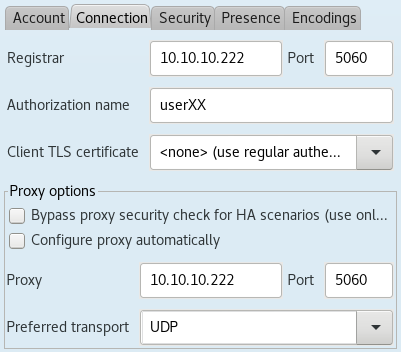
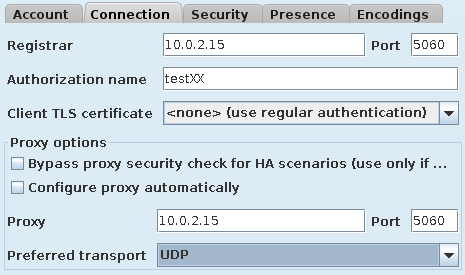
lab4: Update VoIP over central server for online elaboration.

diff --git a/voip/lab4-zadani.tex b/voip/lab4-zadani.tex
@@ -45,10 +45,11 @@
 	\end{table}
   \end{itemize}
   \item Pokud z předchozích cvičení máte provedeny nějaké změny ve virtuálních strojích, obnovte je do výchozího stavu.
-  \item Před zahájením cvičení si vytvořte snapshot virtuálního stroje za pomoci
+  \item Před zahájením cvičení si vytvořte snapshoty virtuálních strojů za pomoci
   menu \textit{Machine $\rightarrow$ Take snapshot} pro snadný návrat k výchozímu stavu.
-  \item Odpovědi pište do odpovědního archu \texttt{protokol.md} který odevzdáte do WIS-u.
-  Dostupný je na adrese \url{https://github.com/nesfit/ISA/blob/master/voip/protokol.md}.
+  \item Odpovědi pište do odpovědního archu \texttt{protokol4.docx} který odevzdáte do WIS-u jako \texttt{protokol4.pdf}.
+  Dostupný je na adrese \url{https://github.com/nesfit/ISA/blob/master/voip/protokol/protokol4.docx}.
+  Pokud nemáte nainstalovaný program Microsoft Word, je možné ze sklau dokumentů ke kurzu ISA stáhnout \texttt{protokol4} i ve formátu \texttt{pdf}.
   \item Do WIS-u budete také odevzdávat všechny zachycené \texttt{pcap} soubory.
 \end{itemize}
 
@@ -56,7 +57,7 @@
 \section{Příprava prostředí pro VoIP}
 
 \subsection{Instalace Jitsi SoftPhone na PC-A}
-\begin{itemize}
+\begin{enumerate}
   \item Jitsi SoftPhone je aplikace, která simuluje chování fyzického IP telefonu.
   
   \item Pro instalaci Jitsi SoftPhone na CentOS 7 je nejdříve potřeba vyřešit problém se závislostmi na požadované RPM balíčky. Na PC-A zadejte postupně následující příkazy:\footnote{Zdroj: \url{https://github.com/jitsi/jitsi/issues/425#issuecomment-345938823}}
@@ -90,105 +91,135 @@
   \item Vypněte virtuální počítač PC-A.
   
   \item V programu VirtualBox klikněte pravým tlačítkem na PC-A a zvolte \emph{Settings $\rightarrow$ Audio} a pokud ještě nejsou, zaškrtněte oba checkboxy (\emph{Enable Audio Output, Enable Audio Input}) a potvrďte kliknutím na \emph{OK}. Tento krok je nutný, i když nebudete fyzické audio zařízení používat. Pokud Jitsi nebude mít přístup k audio zařízení, nenaváže hovor.
-\end{itemize}
+\end{enumerate}
   
 
 \subsection{Vytvoření virtuální LAN a připojení PC-A a PC-U do ní}
-\begin{itemize}
+\begin{enumerate}
   \item Ujistěte se, že PC-A i PC-U jsou vypnuté.
   \item V programu Virtual Box klikněte na \emph{Tools $\rightarrow$ Preferences $\rightarrow$ Network $\rightarrow$ Zelené plus (Adds new NAT network)}. Tím vznikne nová virtuální LAN s názvem \emph{NatNetwork}. Potvrdíme kliknutím na tlačítko \emph{OK}.
   \item Do nově vzniklé virtuální LAN připojte PC-A tak, že kliknete pravým tlačítkem na PC-A a zvolte \emph{Settings $\rightarrow$ Network}. Zde se ujistěte, že je povolený síťový adaptér a z rozbalovacího menu \emph{Attached to:} vyberte \emph{NAT Network}. A z rozbalovacího menu \emph{Name} vyberte \emph{NatNetwork}, což je vaše virtuální LAN vytvořená v předchozím kroku.
   \item Stejným postupem připojte do stejné virtuální LAN také PC-U.
-\end{itemize}
+\end{enumerate}
 
 
 \subsection{Klonování PC-A a vytvoření jeho klonu PC-B}
-\begin{itemize}
+\begin{enumerate}
 	\item Před klonování PC-A se ujistěte, že je PC-A vypnutý.
 	\item V programu VirtualBox klikněte pravým tlačítkem myši na váš virtuální počítač PC-A a vyberte \emph{Clone...}.
 	\item Z rozbalovacího menu \emph{MAC Address Policy:} vyberte \emph{Generate new MAC addresses for all network adapters}. Klikněte na tlačítko \emph{Další}, změňte \emph{Full clone} na \emph{Linked clone} a potvrďte kliknutím na tlačítko \emph{Clone}.
 	\item Nově vzniklý klon je váš PC-B.
 	\item Ověřte, že i PC-B má v programu Virtual Box povolený audio vstup a výstup a že je připojený do virtuální LAN.
-\end{itemize}
+\end{enumerate}
 
 
 \subsection{Ověření konektivity mezi vertuálními počítači}
-\begin{itemize}
+\begin{enumerate}
 	\item Spusťte všechny 3 virtuální počítače (PC-A, PC-B, PC-U). Do počítačů PC-A a PC-B se přihlašte jako uživatel \emph{user} a do počítače PC-U se přihlašte jako uživatel \emph{isa}.
 	\item Na všech třech počítačích spusťte terminál (na PC-U nastartuje terminál automaticky jako hlavní uživatelské rozhraní) a pomocí příkazu \verb{ip address{ (respektive \verb{ifconfig{ na PC-U) zjistěte IPv4 adresu na rozhraní \verb{enp0s3{ (respektive \verb{em0{ na PC-U). IPv4 adresy včetně masky sítě v notaci CIDR (tj. číslo za lomítkem) jednotlivých strojů zapište do protokolu.
 	\item Otestujte konektivitu mezi všemi virtuálními počítači pomocí příkazu \verb{ping{. Výsledky zapište opět do protokolu do předpřipravené tabulky.
-\end{itemize}
+\end{enumerate}
 
 
 \section{Peer-to-peer VoIP pomocí signalizace SIP}
 Nastavte komunikaci VoIP mezi virtuálními stroji PC-A a PC-B bez použití ústředny (spojení peer-to-peer).
 
 \begin{enumerate}
-    \item Na PC-A zapněte program Jitsi a vyčkejte až se spustí okno programu.
+    \item Na PC-A spusťte program Jitsi příkazem \texttt{jitsi \&} a vyčkejte až se spustí okno programu.
 	V menu {\bf Tools} $\rightarrow$ {\bf Options} $\rightarrow$ {\bf Accounts} přidejte nový účet. Pro ten nastavte pole {\bf Network} na hodnotu {\bf SIP} a následně {\bf SIP id} na hodnotu {\bf PC-A}, potvrďte tlačítkem \emph{Add} a zkontrolujte, že se vytvořil {\it RegistrarLess SIP} účet.
     \item Stejný postup jako v předchozím bodě zopakujte pro PC-B, kde ale nastavte {\bf SIP id} na hodnotu {\bf PC-B}.
-	\item Na PC-A i PC-B spusťte síťový analyzátor Wireshark a začněte zachytávat pakety na rozhraní \emph{enp0s3}.
+	\item Na PC-B v hlavním okně programu Jitsi zadejte do pole {\it Enter name or number} IPv4 adresu virtuálního stroje PC-A.
+	Z PC-B zavolejte na PC-A stisknutím tlačítka zeleného telefonu. Na poprvé se pravděpodobně nepodaří hovor navázat, další pokus v obráceném směru volání by však již měl být úspěšný.
+	Hovor z PC-B na PC-A ukončete.
+	\item Na PC-A i PC-B spusťte síťový analyzátor Wireshark jako uživatel \texttt{root} a začněte zachytávat pakety na rozhraní \emph{enp0s3}.
     \item Po spuštění nastavte display filtr tak, aby zobrazoval pouze protokol SIP (\textbf{Display filter:} \emph{sip}).
     \item Na PC-A v hlavním okně programu Jitsi zadejte do pole {\it Enter name or number} IPv4 adresu virtuálního stroje PC-B.
-    \item Z PC-A zavolejte na PC-B stisknutím tlačítka zeleného telefonu. Na počítači PC-B přijměte hovor a po chvíli hovor ukončete.
-	\item Pokud se nepodaří navázat hovor napoprvé, opakujte pokus, případně zkuste zavolat z PC-B na PC-A.
+    \item Z PC-A zavolejte na PC-B stisknutím tlačítka zeleného telefonu. Na počítači PC-B přijměte hovor.
+	\item Pokud v průběhu hovoru klikejte na tlačítka \texttt{Confirm} pro potvrzení bezpečnostního kódu, dojde k zabezpečení komunikace a změny z protokolu \emph{RTP} na protokol \emph{SRTP} (Secure Real-time Transport).
+	\item Po chvíli hovor ukončete.
 	\item Po ukončení hovoru zastavte zachytávání provozu v programu Wireshark na obou počítačích.
-    \item Proveďte analýzu navazování spojení v odchycených datech ve Wiresharku. Využijte podpory v menu {\bf Telephony $\rightarrow$ VoIP Calls}, kde uvidíte jednotlivé zaznamenané hovory. Vyberte příslušný hovor a pro zobrazení průběhu klikněte na volbu {\bf Flow}.
-    \item Zakreslete spojení do grafu v protokolu. Uveďte, pomocí kterých protokolů a mezi jakými IP adresami a porty probíhá signalizace a přenos dat. Zjistěte použitý kodek pro přenos hlasu.
-\end{enumerate}
+	\item Zachycenou komunikaci uložte do souborů \texttt{cv4-p2p-pcA.pcap} a \texttt{cv4-p2p-pcB.pcap}. Tyto soubory budete odevzdávat.
+    \item Buď na PC-A nebo na PC-B proveďte analýzu navazování spojení v odchycených datech ve Wiresharku. Využijte podpory v menu {\bf Telephony $\rightarrow$ VoIP Calls}, kde uvidíte jednotlivé zaznamenané hovory (měli byste vidět pouze jediný hovor). Vyberte příslušný hovor a pro zobrazení průběhu klikněte na tlačítko {\bf Flow Sequence}.
+    \item Zakreslete spojení do grafu v protokolu. Uveďte, pomocí kterých protokolů a mezi jakými IP adresami a porty probíhá signalizace a přenos dat. Zjistěte použitý kodek pro přenos hlasu.\\
+
 Názvy a čísla podporovaných kodeků lze zobrazit v SIP/SDP zprávě v sekci {\bf Session Initiation Protocol} $\rightarrow$ {\bf Message body} $\rightarrow$ {\bf Session description protocol}:
-\begin{figure}[h!]
+\begin{figure}[H]
   \centering
   \includegraphics[width=145mm]{img/3a.png}
 \end{figure}
 
-\noindent Informace o tom, který z podporovaných kodeků byl skutečně použit získáte z RTP paketů (\textbf{Display filter:} \emph{rtp}) podle čísla v poli {\bf Payload type}.
-\begin{figure}[h!]
+\noindent Informace o tom, který z podporovaných kodeků byl skutečně použit, získáte z RTP paketů (\textbf{Display filter:} \emph{rtp}) podle čísla v poli {\bf Payload type}.
+\begin{figure}[H]
   \centering
   \includegraphics[width=105mm]{img/3b.png}
 \end{figure}
 
 
+    \item Na PC-A i PC-B odstraňte vytvořený {\it RegistrarLess SIP} účet v menu {\bf Tools} $\rightarrow$ {\bf Options} $\rightarrow$ {\bf Accounts}.
+    \item Na PC-A i PC-B ukončete a znovu spusťte program Jitsi.
+\end{enumerate}
+
 \section{Komunikace VoIP pomocí signalizace SIP přes ústřednu}
 Nastavte komunikaci VoIP mezi virtuálními stroji PC-A a PC-B pomocí SIP ústředny na virtuálním stroji PC-U.
 
-\subsection{Analýza registrace a odregistrace}
+\subsection{Registrace k ústředně}
 \begin{enumerate}
-    \item Spusťte znovu zachytávání paketů v aplikaci Wireshark tlačítkem \includegraphics[width=3mm]{img/ws_start.png}.
-    \item Vraťte se do hlavního okna aplikace Jitsi, otevřite menu {\bf Options} $\rightarrow$ {\bf Accounts}.
-    \item Vytvořte nový účet, v poli {\bf Network} vyberte hodnotu SIP, přepněte se do rozšířených nastavení (tlačítkem {\bf Advanced}) a postupujte podle obrázků \ref{fig:sip_account} a \ref{fig:sip_connection}, kde místo {\bf XX}, dosaďte číslo Vašeho počítače.\\
-\begin{figure}[h!]
+    \item Na PC-A i PC-B spusťte znovu zachytávání paketů na rozhraní \emph{enp0s3} v aplikaci Wireshark tlačítkem \includegraphics[width=3mm]{img/ws_start.png}.
+    \item V aplikaci Jitsi na PC-A i PC-B otevřete menu {\bf Tools} $\rightarrow$ {\bf Options} $\rightarrow$ {\bf Accounts}.
+    \item Na PC-A i PC-B vytvořte nový účet. V poli {\bf Network} vyberte hodnotu SIP, přepněte se do rozšířených nastavení (tlačítkem {\bf Advanced}) a postupujte podle obrázků \ref{fig:sip_account}, \ref{fig:sip_connection} a \ref{fig:sip_security}, kde místo {\bf XX} dosaďte \texttt{01} na PC-A a \texttt{02} na PC-B (do polí \textbf{SIP id} a \textbf{Authorization name}).
+	Do pole \textbf{Heslo} doplňte \texttt{password}. Do polí \textbf{Registrar} a \textbf{Proxy} doplňte IP adresu virtuálního počítače PC-U (ústředny). V případě ukázkové konfigurace na obrázcích je IP adresa ústředny \texttt{10.0.2.15}.\\
+\begin{figure}[H]
   \centering
-  \includegraphics[scale=0.8]{img/sip_account.png}
+  \includegraphics[scale=1]{img/sip_account.png}
   \caption{Základní informace o účtu.}
   \label{fig:sip_account}
 \end{figure}
-\begin{figure}[h!]
+\begin{figure}[H]
   \centering
-  \includegraphics[scale=0.8]{img/sip_connection.png}
+  \includegraphics[scale=1]{img/sip_connection.png}
   \caption{Informace o připojení, přihlašovací jméno k ústředně a proxy.}
   \label{fig:sip_connection}
 \end{figure}
+\begin{figure}[H]
+  \centering
+  \includegraphics[scale=1]{img/sip_security.png}
+  \caption{Deaktivace zabezpečení hovoru.}
+  \label{fig:sip_security}
+\end{figure}
     a potvrďte tlačítkama {\bf Next $\rightarrow$ Sign in}.
-    \item Tímto jste provedli registraci k ústředně. Pokud jste vše nastavili správně, mělo by se v pravém sloupci zobrazit {\bf SIP Online} \\
-    {\it (V případě neúspěchu v nastavení účet odeberte a znovu přidejte. Pokud ani toto nepomohlo, ukončete Jitsi a postupujte znovu od kroku 1), případně konzultujte problém se cvičícím}
-    \item V menu {\bf Options} $\rightarrow$ {\bf Accounts} vytvořený SIP účet a klikněte na {\bf Delete}, čímž by měla proběhnout odregistrace od ústředny.
-    \item Ve Wiresharku analyzujte registraci a odregistraci a zakresleslete jejich průběh do protokolu. Vyplňte požadované údaje a zjistěte, v čem se liší paket, kterým se registrujete, od paketu, kterým se odregistrujete.
+    \item Tímto jste provedli registraci k ústředně. Pokud jste vše nastavili správně, mělo by se v pravém sloupci zobrazit {\bf SIP Online}.\\
+    {\it (V případě neúspěchu účet odeberte, ukončete Jitsi a postupujte znovu od kroku 1), případně konzultujte problém se cvičícím.)}
+    \item Zastavte zachytávání provozu v programu Wireshark na obou počítačích a uložete zachycenou komunikaci do souborů \texttt{cv4-registerU-pcA.pcap} a \texttt{cv4-registerU-pcB.pcap}. Tyto soubory budete odevzdávat.
+	\item Buď na PC-A nebo na PC-B vyfiltrujte \emph{SIP} komunikaci ze zachyceného provozu, analyzujte registraci a doplňte do protokolu požadované údaje z paketu zaslaného ústředně (PC-U), který obsahuje žádost o registraci klienta Jitsi nainstalovaného na PC-A nebo PC-B.
 \end{enumerate}
 
 
 \subsection{Analýza hovoru přes ústřednu}
 \begin{enumerate}
-    \item Znovu se registrujte k ústředně stejně jako v předchozí sekci.
-    \item Obnovte zachytávání paketů v aplikaci Wireshark tlačítkem \includegraphics[width=3mm]{img/ws_start.png}.
-    \item V hlavním okně programu zadejte do pole pro telefonní číslo/adresu SIP adresu Vašeho souseda: \linebreak{\bf 10YY@10.10.10.222}, kde {\bf YY} je opět číslo počítače Vašeho souseda.
-    \item Zavolejte Vašemu sousedovi a proveďte analýzu hovoru podobně jako u Peer-to-peer hovoru.
-    \item Zakreslete průběh spojení do grafu v protokolu. Zkombinujte informace
-      z obou pracovních stanic a do protokolu zaneste úplnou komunikaci všech
-      tří stanic. Uveďte, mezi kterými IP adresami a porty probíhá signalizace a mezi kterými přenos dat. Vyplňte, které protokoly se používají pro signalizaci a které pro přenos. Dále zjistěte, jaký kodek pro přenos hlasu byl použit.
+    \item Na PC-A i na PC-B znovu spusťte zachytávání paketů v aplikaci Wireshark tlačítkem \includegraphics[width=3mm]{img/ws_start.png}.
+    \item Na PC-A (jako uživatel \emph{test01}) zadejte v aplikaci Jitsi do pole pro telefonní číslo SIP adresu uživatele \emph{test02}: \linebreak{\bf 1002@10.0.2.15}, kde místo {\bf 10.0.2.15} napište IP adresu počítače PC-U (ústředny). 1002 je telefonní klapka uživatele \emph{test02}.
+    \item Zahajte hovor z PC-A na PC-B stisknutím tlačítka zeleného sluchátka. Po chvíli hovor ukončete.
+	\item Zastavte zachytávání provozu v programu Wireshark na obou počítačích a uložete zachycenou komunikaci do souborů \texttt{cv4-calloverU-pcA.pcap} a \texttt{cv4-calloverU-pcB.pcap}. Tyto soubory budete odevzdávat.
+	\item Proveďte v aplikaci Wireshark analýzu hovoru podobně jako u peer-to-peer hovoru ({\bf Telephony $\rightarrow$ VoIP Calls $\rightarrow$ \bf Flow Sequence}).
+    \item Zakreslete průběh spojení do grafu v protokolu. Zkombinujte informace z obou virtuálních počítačů (PC-A i PC-B) a do protokolu zaneste úplnou komunikaci všech
+      tří stanic (PC-A, PC-B a PC-U). Uveďte, mezi kterými IP adresami a porty probíhá signalizace a mezi kterými přenos dat. Vyplňte, které protokoly se používají pro signalizaci a které pro přenos. Dále zjistěte, jaký kodek pro přenos hlasu byl použit.
 \end{enumerate}
 
-\section{Ukončení práce v laboratoři}
+
+\section*{Odevzdávané soubory}
+Zkontrolujte, zda máte všechny soubory které se budou odevzdávat:
 \begin{itemize}
-  \item Počítač vypněte spuštěním (jako {\bf root}) skriptu {\tt /root/isa4/clean}.
+  \item \texttt{protokol4.pdf}
+  \item \texttt{cv4-p2p-pcA.pcap}
+  \item \texttt{cv4-p2p-pcB.pcap}
+  \item \texttt{cv4-registerU-pcA.pcap}
+  \item \texttt{cv4-registerU-pcB.pcap}
+  \item \texttt{cv4-calloverU-pcA.pcap}
+  \item \texttt{cv4-calloverU-pcB.pcap}
+\end{itemize}
+
+\section*{Ukončení práce v laboratoři}
+\begin{itemize}
+	\item Do WIS-u odevzdejte vyplněný \texttt{protokol4.pdf} a všechny zachycené \texttt{pcap} soubory.
+	\item Vypňete virtuální stroje a obnovte jejich snapshot vytvořený na začátku této laboratoře.
 \end{itemize}
